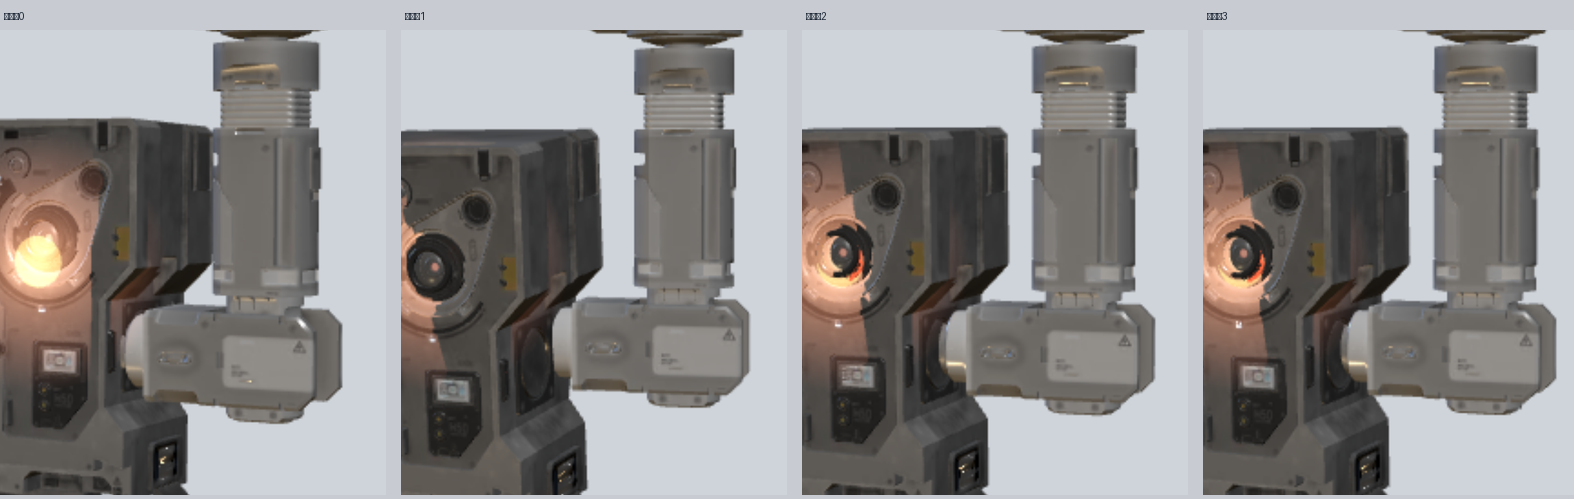
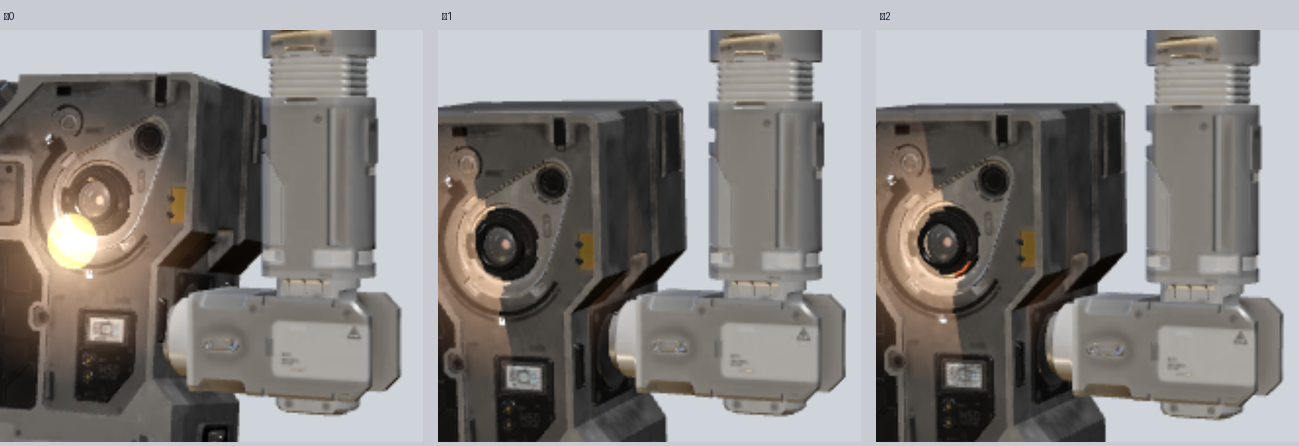
feat(moss): J3 改为水平轴点头，J1/J2 保持垂直轴偏航
按用户确认的轴向：
- J1 颈部：绕垂直轴偏航（带整条手臂）
- J2 肘部：绕垂直轴偏航（带前臂+手块+机身）
- J3 手腕：绕水平轴前后点头（只带机身）—— 即点头效果
- 枢轴用拟合圆圆心；手块归 J2
- 姿态幅度：偏航 6/14°、点头 +10/−9°；执行态 ×1.3 幅度
- 素材版本 v64

diff --git a/assets3d/boot.js b/assets3d/boot.js
@@ -95,15 +95,109 @@ export function createMoss3D(canvas, opts) {
     objRoot = obj
     obj.updateMatrixWorld(true)
 
-    /* ── 关于关节 ─────────────────────────────────────
-       结论（已用几何数据与多轮实拍验证）：
-       这个 FBX 是一整块连续外壳 —— 52 个连通块之间没有任何 y 方向断档，
-       顶部横梁/头部/手臂焊死在同一张面上。
-       因此只要分段转动，接缝处必然滑开（手块脱离前臂、机身脱离手块）。
-       在拿到「分件/带骨骼」的模型之前，不做关节动画，保证模型永远完整。 */
-    armTop = null
-    armMid = null
-    armWrist = null
+    /* ── 三个关节（轴向由用户确认）──────────────────────
+       J1 颈部：垂直轴 → 左右偏航，带整条手臂
+       J2 肘部：垂直轴 → 左右偏航，带前臂+手块+机身
+       J3 手腕：水平轴 → 前后点头，只带机身
+       分段按网格零件 y 分布：>79.9 固定 / 60.6~79.9 上臂 / 25~60.6 前臂+手块 / <25 手块余部
+       枢轴用拟合圆圆心，不用截面质心。 */
+    {
+      const arm = obj.getObjectByName('Moss_arm')
+      if (arm) {
+        const geo = arm.geometry
+        const posAttr = geo.attributes.position
+        const norAttr = geo.attributes.normal
+        const uvAttr = geo.attributes.uv
+        const total = posAttr.count
+        const M = arm.matrix.clone()
+        const parent = arm.parent
+        const weld = new Map()
+        const wid = new Int32Array(total)
+        for (let i = 0; i < total; i += 1) {
+          const k = posAttr.getX(i).toFixed(2) + ',' + posAttr.getY(i).toFixed(2) + ',' + posAttr.getZ(i).toFixed(2)
+          let id = weld.get(k)
+          if (id === undefined) { id = weld.size; weld.set(k, id) }
+          wid[i] = id
+        }
+        const par = new Int32Array(weld.size)
+        for (let i = 0; i < par.length; i += 1) par[i] = i
+        const find = (x) => { let r = x; while (par[r] !== r) r = par[r]; while (par[x] !== r) { const n = par[x]; par[x] = r; x = n } return r }
+        const join = (a, b) => { const ra = find(a); const rb = find(b); if (ra !== rb) par[ra] = rb }
+        for (let i = 0; i < total; i += 3) { join(wid[i], wid[i + 1]); join(wid[i], wid[i + 2]) }
+        const tmp = new THREE.Vector3()
+        const compY = new Map()
+        for (let i = 0; i < total; i += 1) {
+          const r = find(wid[i])
+          tmp.set(posAttr.getX(i), posAttr.getY(i), posAttr.getZ(i)).applyMatrix4(M)
+          const rec = compY.get(r)
+          if (!rec) compY.set(r, { y0: tmp.y, y1: tmp.y })
+          else { rec.y0 = Math.min(rec.y0, tmp.y); rec.y1 = Math.max(rec.y1, tmp.y) }
+        }
+        const bucketOf = new Map()
+        compY.forEach((rec, r) => {
+          const mid = (rec.y0 + rec.y1) / 2
+          bucketOf.set(r, mid > 79.9 ? 0 : mid > 60.6 ? 1 : mid > 25.0 ? 2 : 3)
+        })
+        const buckets = [[], [], [], []]
+        for (let i = 0; i < total; i += 3) buckets[bucketOf.get(find(wid[i]))].push(i)
+        const buildSub = (tris) => {
+          const cnt = tris.length * 3
+          const p2 = new Float32Array(cnt * 3)
+          const n2 = new Float32Array(cnt * 3)
+          const u2 = uvAttr ? new Float32Array(cnt * 2) : null
+          let w = 0
+          for (const st of tris) {
+            for (let k = 0; k < 3; k += 1) {
+              const idx = st + k
+              p2[w * 3] = posAttr.getX(idx); p2[w * 3 + 1] = posAttr.getY(idx); p2[w * 3 + 2] = posAttr.getZ(idx)
+              if (norAttr) { n2[w * 3] = norAttr.getX(idx); n2[w * 3 + 1] = norAttr.getY(idx); n2[w * 3 + 2] = norAttr.getZ(idx) }
+              if (u2) { u2[w * 2] = uvAttr.getX(idx); u2[w * 2 + 1] = uvAttr.getY(idx) }
+              w += 1
+            }
+          }
+          const g2 = new THREE.BufferGeometry()
+          g2.setAttribute('position', new THREE.BufferAttribute(p2, 3))
+          if (norAttr) g2.setAttribute('normal', new THREE.BufferAttribute(n2, 3))
+          if (u2) g2.setAttribute('uv', new THREE.BufferAttribute(u2, 2))
+          g2.computeBoundingSphere()
+          return g2
+        }
+        const makePart = (tris) => {
+          const m = new THREE.Mesh(buildSub(tris), arm.material)
+          m.frustumCulled = false
+          m.matrixAutoUpdate = false
+          m.matrix.copy(arm.matrix)
+          parent.add(m)
+          m.updateMatrixWorld(true)
+          return m
+        }
+        const headMesh = makePart(buckets[0])
+        const upperMesh = makePart(buckets[1])
+        const foreMesh = makePart(buckets[2])
+        const handMesh = makePart(buckets[3])
+        const P1 = new THREE.Vector3(-0.37, 79.9, 18.04)
+        const P2 = new THREE.Vector3(32.92, 60.6, 18.04)
+        const hb = new THREE.Box3().setFromObject(handMesh)
+        const bodyMesh0 = obj.getObjectByName('Moss_Main')
+        const bb0 = bodyMesh0 ? new THREE.Box3().setFromObject(bodyMesh0) : hb
+        const hc = hb.getCenter(new THREE.Vector3())
+        const P3 = new THREE.Vector3((hb.min.x + bb0.max.x) / 2, hc.y, hc.z)
+        const p1 = new THREE.Group(); p1.position.copy(P1); parent.add(p1); parent.updateMatrixWorld(true)
+        p1.attach(upperMesh)
+        const p2 = new THREE.Group(); p2.position.copy(P2).sub(P1); p1.add(p2); p1.updateMatrixWorld(true)
+        p2.attach(foreMesh)
+        p2.attach(handMesh)
+        const p3 = new THREE.Group(); p3.position.copy(P3); parent.add(p3); parent.updateMatrixWorld(true)
+        ;['Moss_Main', 'Moss_Annexes', 'Moss_Glass'].forEach((nm) => {
+          const part = obj.getObjectByName(nm)
+          if (part) p3.attach(part)
+        })
+        arm.visible = false
+        armTop = p1
+        armMid = p2
+        armWrist = p3
+      }
+    }
 
     /* 红眼：模型自带发光贴图只有 3 个 LED 点，主镜头没做发光，这里补一层 */
     const mainMesh = obj.getObjectByName('Moss_Main')
@@ -186,7 +280,30 @@ export function createMoss3D(canvas, opts) {
     const t = (performance.now() - t0) / 1000
     const speed = working ? 2.6 : 1
     /* 整机轻微悬浮：所有零件刚性同步，不可能分离 */
-    if (objRoot) objRoot.position.y = baseY + Math.sin(t * 0.7 * speed) * 1.1
+    /* J1/J2 左右偏航，J3 前后点头 */
+    {
+      const POSES = [
+        { a1: 0, a2: 0, a3: 0 },
+        { a1: 6, a2: -3, a3: 10 },
+        { a1: -5, a2: 3, a3: -9 },
+        { a1: 3, a2: -2, a3: 5 },
+        { a1: 0, a2: 0, a3: 0 },
+      ]
+      const SEG = working ? 1.1 : 1.7
+      const amp = working ? 1.3 : 1
+      const loopLen = SEG * (POSES.length - 1)
+      const lt = (t * speed) % loopLen
+      const idx = Math.min(POSES.length - 2, Math.floor(lt / SEG))
+      const frac = (lt - idx * SEG) / SEG
+      const ease = frac * frac * (3 - 2 * frac)
+      const from = POSES[idx]
+      const to = POSES[idx + 1]
+      const ang = (k) => ((from[k] + (to[k] - from[k]) * ease) * amp) * Math.PI / 180
+      if (armTop) armTop.rotation.y = ang('a1')
+      if (armMid) armMid.rotation.y = ang('a2')
+      if (armWrist) armWrist.rotation.x = ang('a3')
+    }
+    if (objRoot) objRoot.position.y = baseY + Math.sin(t * 0.7 * speed) * 0.8
     renderer.render(scene, camera)
     if (!healthChecked) {
       healthChecked = true

diff --git a/client/client.js b/client/client.js
@@ -37,7 +37,7 @@ window.__ModuleLoader__.load({
     var ROOT_ID = 'dsh-pet-liang-root'
     var POS_KEY = 'dsh-pet-liang:pos'
     /* 素材改了名字没变，加一个版本号强制浏览器重新取（宿主给的是 immutable 缓存） */
-    var ASSET_V = '63'
+    var ASSET_V = '64'
     var STYLE_ID = 'dsh-pet-liang-style'
 
     /** 四档推理等级对应的称呼与氛围色。 */

diff --git a/README.md b/README.md
@@ -109,12 +109,12 @@ MOSS 形象不再用预渲染 PNG，而是**在插件里实时渲染你提供的
 - 模型：`assets3d/moss.fbx`（4 个材质组 Moss_Main / Moss_arm / Moss_Glass / Moss_Annexes）
 - 贴图：4096² 原图压到 512 的 WebP，共 13 张（Base / Normal / Emissive / ORM 打包），合计约 400KB
 - 运行时：`three.module.min.js` + `FBXLoader` + `fflate` + `NURBS*`，全部本地托管，不联网
-- **分段与轴心（实测）**：`screenshots/17-part-classification.png` 是四段直接染色的实拍。
-  - 固定：顶部横梁 + 头部（螺栓在轨道上，**任何情况下都不动**）
-  - J1 段：上臂（绕颈部垂直轴）
-  - J2 段：前臂 **+ 手块**（绕肘部垂直轴）——手块与前臂是一体的，参考图里 J3 在「手块↔机身」之间
-  - J3 段：**只有机身**（绕手块与机身的接合处微倾）
-- **枢轴必须用拟合圆的圆心**，不能用截面质心：J1 x=−0.37 / J2 x=32.92 / J3 取机身与手块接合处；质心会被机身这种大偏置块拉到 x≈0，差 30 多单位，一转就把零件甩开。
+- **三个关节（轴向经用户确认）**：
+  - **J1 颈部**：绕垂直轴左右偏航，带整条手臂
+  - **J2 肘部**：绕垂直轴左右偏航，带前臂 + 手块 + 机身
+  - **J3 手腕**：绕**水平轴前后点头**，只带机身（即"点头"效果）
+  - 枢轴用拟合圆圆心：J1 (x=−0.37, y=79.9, z=18.04)、J2 (x=32.92, y=60.6, z=18.04)；J3 取手块与机身接合处
+  - 手块归 J2（与手臂一体），只有机身绕 J3
 
 - **相机**：必须用 3/4 视角（方位角 26°）。正对时绕垂直轴的偏航是「往屏幕里外摆」，肉眼几乎看不出；3/4 下才明显。
 - **缓存**：`boot.js` 的请求带 `?v=`，宿主对 `.js` 返回 `no-cache`——之前没带版本，桌面端可能一直执行旧缓存。
